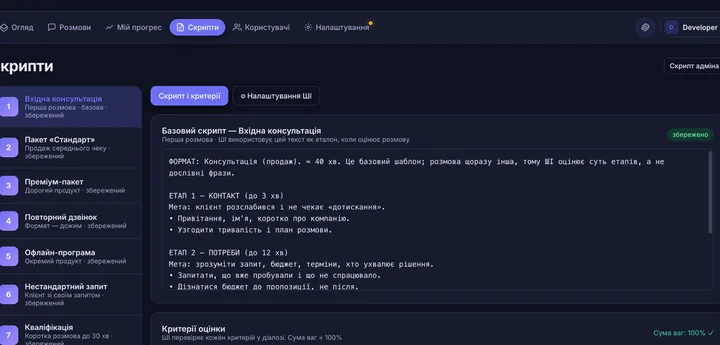
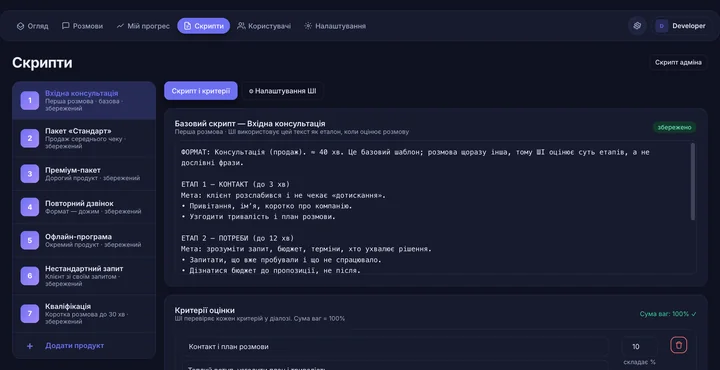
Огляд/Розмови/Скрипти без обрізання, узгоджені оцінки (68%), правки текстів
Claude-Session: https://claude.ai/code/session_01QjK6nYwkpTHjCv4R5ViDVx

diff --git a/index.html b/index.html
@@ -245,7 +245,7 @@ input[type=number]:focus{outline:0;border-color:var(--accent)}
 .more button{display:block;width:100%;background:none;border:0;padding:0;text-align:left;cursor:zoom-in}
 .more .shot{border-radius:9px;transition:transform .45s cubic-bezier(.2,.8,.2,1)}
 .more button:hover .shot{transform:translateY(-6px)}
-.more img{width:100%;aspect-ratio:1440/690;object-fit:cover}
+.more img{width:100%;aspect-ratio:1800/924;object-fit:cover}
 .more h3{font-size:19px;letter-spacing:-.015em;margin:18px 0 6px}
 .more p{color:var(--muted);font-size:15.5px}
 dialog{border:0;padding:0;background:none;max-width:min(94vw,1440px);margin:auto}
@@ -431,7 +431,7 @@ footer .wrap{display:flex;justify-content:space-between;gap:16px;flex-wrap:wrap}
       <i class="ind" id="ind"></i>
     </div>
     <div class="vqa-box" id="vqa">
-      <div class="vqa on"><h3><span lang="uk">Як пройшла розмова і хто винен, що клієнт не купив?</span></h3><p><span lang="uk">Загальна оцінка, шість критеріїв з вагами і короткий зміст. Окремий висновок: провал менеджера чи нецільовий клієнт. Тут — 62%: клієнтка цільова, угоду втрачено через два моменти розмови.</span></p></div>
+      <div class="vqa on"><h3><span lang="uk">Як пройшла розмова і хто винен, що клієнт не купив?</span></h3><p><span lang="uk">Загальна оцінка, вісім критеріїв з вагами і короткий зміст. Окремий висновок: провал менеджера чи нецільовий клієнт. Тут — 68%: клієнтка цільова, угоду втрачено через два моменти розмови.</span></p></div>
       <div class="vqa"><h3><span lang="uk">Де саме менеджер недотиснув?</span></h3><p><span lang="uk">Кожна помилка з поясненням, порадою і дослівною цитатою. Тут дві: заперечення про ціну без уточнення (<span class="tc">19:52</span>) і наступний крок без конкретного часу (<span class="tc">31:40</span>). До кожної — готова фраза, що сказати замість.</span></p></div>
       <div class="vqa"><h3><span lang="uk">Що зі скрипта виконано, а що пропущено?</span></h3><p><span lang="uk">Оцінка за кожним критерієм вашого скрипта з його вагою. Клік по критерію показує, чому оцінка саме така.</span></p></div>
       <div class="vqa"><h3><span lang="uk">Що болить клієнту і чи готовий він купити?</span></h3><p><span lang="uk">Профіль клієнта, готовність до покупки і болі — кожна з цитатою й таймкодом. Готова основа для наступного дзвінка.</span></p></div>
@@ -477,9 +477,9 @@ footer .wrap{display:flex;justify-content:space-between;gap:16px;flex-wrap:wrap}
     <div><h3><span lang="uk">Тиждень, місяць, рік</span></h3><p><span lang="uk">Видно, чи дає результат навчання: оцінки ростуть чи стоять.</span></p></div>
   </div>
   <div class="more" data-rv>
-    <button data-full="img/overview.webp"><div class="shot"><img src="img/overview-720.webp" width="720" height="345" loading="lazy" decoding="async" data-uk="Екран «Огляд»" alt=""></div><h3><span lang="uk">Огляд</span></h3><p><span lang="uk">Зріз за період: скільки розмов, середня оцінка, критичні помилки.</span></p></button>
-    <button data-full="img/calls.webp"><div class="shot"><img src="img/calls-720.webp" width="720" height="345" loading="lazy" decoding="async" data-uk="Екран «Розмови»" alt=""></div><h3><span lang="uk">Розмови</span></h3><p><span lang="uk">Усі розмови з фільтрами за менеджером, статусом і датою.</span></p></button>
-    <button data-full="img/scripts.webp"><div class="shot"><img src="img/scripts-720.webp" width="720" height="345" loading="lazy" decoding="async" data-uk="Екран «Скрипти»" alt=""></div><h3><span lang="uk">Скрипти</span></h3><p><span lang="uk">Ваші скрипти й ваги критеріїв. Для кожного типу розмови — свій.</span></p></button>
+    <button data-full="img/overview.webp"><div class="shot"><img src="img/overview-720.webp" width="720" height="370" loading="lazy" decoding="async" data-uk="Екран «Огляд»" alt=""></div><h3><span lang="uk">Огляд</span></h3><p><span lang="uk">Зріз за період: скільки розмов, середня оцінка, критичні помилки.</span></p></button>
+    <button data-full="img/calls.webp"><div class="shot"><img src="img/calls-720.webp" width="720" height="370" loading="lazy" decoding="async" data-uk="Екран «Розмови»" alt=""></div><h3><span lang="uk">Розмови</span></h3><p><span lang="uk">Усі розмови з фільтрами за менеджером, статусом і датою.</span></p></button>
+    <button data-full="img/scripts.webp"><div class="shot"><img src="img/scripts-720.webp" width="720" height="370" loading="lazy" decoding="async" data-uk="Екран «Скрипти»" alt=""></div><h3><span lang="uk">Скрипти</span></h3><p><span lang="uk">Ваші скрипти й ваги критеріїв. Для кожного типу розмови — свій.</span></p></button>
   </div>
 </div></section>
 
